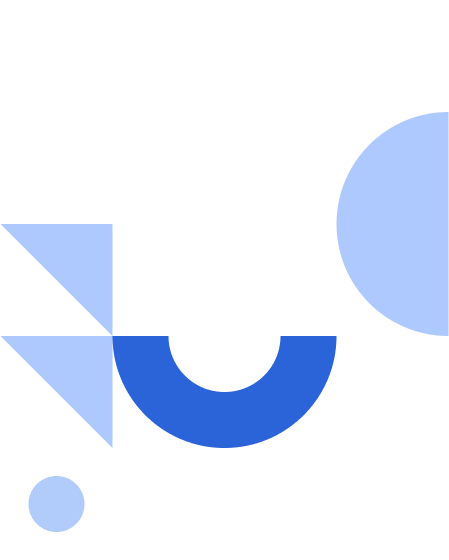
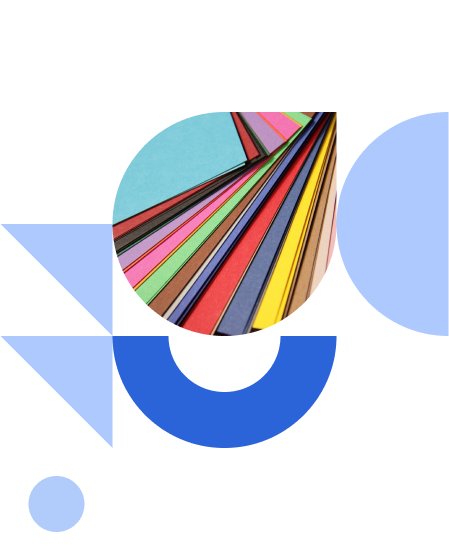
seccion somos en flex e imágenes cambiadas de paginas: home, agencia y portafolio

Changed region(s): [[0.2494, 0.1821, 0.7483, 0.6071]]

diff --git a/secciones/portafolio.html b/secciones/portafolio.html
@@ -31,7 +31,7 @@
                         <a class="nav-link" href="./agencia.html">Agencia</a>
                     </li>
                     <li class="nav-item">
-                        <a class="nav-link" href="./clientes.html">Clientes</a>
+                        <a class="nav-link" href="#">Clientes</a>
                     </li>
                     <li class="nav-item">
                         <a class="nav-link" href="./portafolio.html">Portafolio</a>
@@ -47,13 +47,11 @@
             <div class="container-md">
                 <div class="row align-items-center">
                     <div class="col info-white">
-                        <h1>Creatividad.<br>
-                            Método.<br>
-                            Resultados.</h1>
-                        <h3>Lorem, ipsum dolor sit amet consectetur adipisicing elit.</h3>
+                        <h1>Nuestro trabajo</h1>
+                        <h5>Lorem, ipsum dolor sit amet consectetur adipisicing elit.</h5>
                     </div>
                     <div class="col-md">
-                        <img class="hero-img" src="../img/grafica.png">
+                        <img class="hero-img" src="../img/portafolio.png">
                     </div>
                 </div>
 
@@ -78,24 +76,13 @@
         </div>
         <div class="box-grid justify-content-center">
             <div class="item">
-                <img class="item-mobile" src="../img/card1.png">
+                <img class="item-mobile" src="../img/card5.png">
             </div>
             <div class="item">
-                <img class="item-mobile" src="../img/card2.png">
+                <img class="item-mobile" src="../img/card4.png">
             </div>
             <div class="item">
-                <img class="item-mobile" src="../img/card3.png">
-            </div>
-        </div>
-        <div class="box-grid justify-content-center">
-            <div class="item">
-                <img class="item-mobile" src="../img/card1.png">
-            </div>
-            <div class="item">
-                <img class="item-mobile" src="../img/card2.png">
-            </div>
-            <div class="item">
-                <img class="item-mobile" src="../img/card3.png">
+                <img class="item-mobile" src="../img/card6.png">
             </div>
         </div>
     </section>

diff --git a/secciones/agencia.html b/secciones/agencia.html
@@ -31,7 +31,7 @@
                         <a class="nav-link" href="./agencia.html">Agencia</a>
                     </li>
                     <li class="nav-item">
-                        <a class="nav-link" href="./clientes.html">Clientes</a>
+                        <a class="nav-link" href="#">Clientes</a>
                     </li>
                     <li class="nav-item">
                         <a class="nav-link" href="./portafolio.html">Portafolio</a>
@@ -50,10 +50,10 @@
                         <h1>Creatividad.<br>
                             Método.<br>
                             Resultados.</h1>
-                        <h4>Lorem, ipsum dolor sit amet consectetur adipisicing elit.</h4>
+                        <h5>Lorem, ipsum dolor sit amet consectetur adipisicing elit.</h5>
                     </div>
                     <div class="col-md">
-                        <img class="hero-img" src="../img/grafica.png">
+                        <img class="hero-img" src="../img/agencia.png">
                     </div>
                 </div>
 
@@ -85,7 +85,7 @@
             </div>
         </div>
     </section>
-    <section class="text-left section-white">
+    <!-- <section class="text-left section-white">
         <div class="grid-2 justify-content-center">
             <div class="item">
                 <h4>Sobre nosotros</h4>
@@ -94,6 +94,15 @@
             <div class="item">
                 <img src="#">
             </div>
+        </div>
+    </section> -->
+    <section class="flex-container justify-content-center">
+        <div class="flex-item">
+            <h4>Sobre nosotros</h4>
+            <p>Lorem ipsum dolor sit amet, consectetur adipiscing elit. In vitae venenatis elit. Suspendisse a semper nisl. Morbi pretium enim eget felis lobortis dapibus.</p>
+        </div>
+        <div class="flex-item">
+            <img class="img-mid" src="../img/somos.png">
         </div>
     </section>
     <section class="section-white">

diff --git a/styles.css b/styles.css
@@ -5,13 +5,13 @@
 }
 
 h1{
-    font-size: 54px;
+    font-size: 48px;
     font-family: "Poppins", sans-serif;
     font-weight: 700;
 }
 
 h2{
-    font-size: 46px;
+    font-size: 42px;
     font-family: "Poppins", sans-serif;
     font-weight: 500;
 }
@@ -79,9 +79,10 @@ ul{
 }
 
 .hero-img {
-    width: auto;
+    width: 80%;
     padding-top: 50px;
     padding-bottom: 50px;
+    margin: 0 auto;
 }
 
 .gradient{
@@ -122,6 +123,26 @@ ul{
 .item{
     padding: 10px;
     margin: 0 auto;
+}
+
+.flex-container{
+    display: flex;
+    background-color: #f0f0f0;
+    padding: 60px 0px 50px;
+    align-items: center;
+    gap: 30px;
+    
+
+}
+
+.flex-item{
+    flex-wrap: wrap;
+    width: 35%;
+}
+
+
+.img-mid {
+    width: 80%;
 }
 
 .ph-duotone{
@@ -235,6 +256,21 @@ ul{
 
     .item-mobile{
         width: 480px;
+    }
+
+    .flex-container{
+        display: flex;
+        flex-direction: column;
+        background-color: #f0f0f0;
+        padding: 60px 0px 50px;
+    }
+    
+    .flex-item{
+        width: 80%;
+        align-self: center;
+        text-align: center;
+        margin: 0 auto;
+        padding: 30px 0px 30px;
     }
 
     .form-news{

diff --git a/index.html b/index.html
@@ -34,7 +34,7 @@
                         <a class="nav-link" href="#">Clientes</a>
                     </li>
                     <li class="nav-item">
-                        <a class="nav-link" href="#">Portafolio</a>
+                        <a class="nav-link" href="./secciones/portafolio.html">Portafolio</a>
                     </li>
                     <li class="nav-item">
                         <a class="nav-link" href="#">Contacto</a>
@@ -48,10 +48,10 @@
                 <div class="row align-items-center">
                     <div class="col info-white">
                         <h1>Creamos con foco en resultados</h1>
-                        <h4>Bienvenido a las soluciones que cambiarán tu marca para siempre</h4>
+                        <h5>Bienvenido a las soluciones que cambiarán tu marca para siempre</h5>
                     </div>
-                    <div class="col-md">
-                        <img class="hero-img" src="../img/grafica.png">
+                    <div class="col-md justify-content-center">
+                        <img class="hero-img" src="./img/grafica.png">
                     </div>
                 </div>
 
